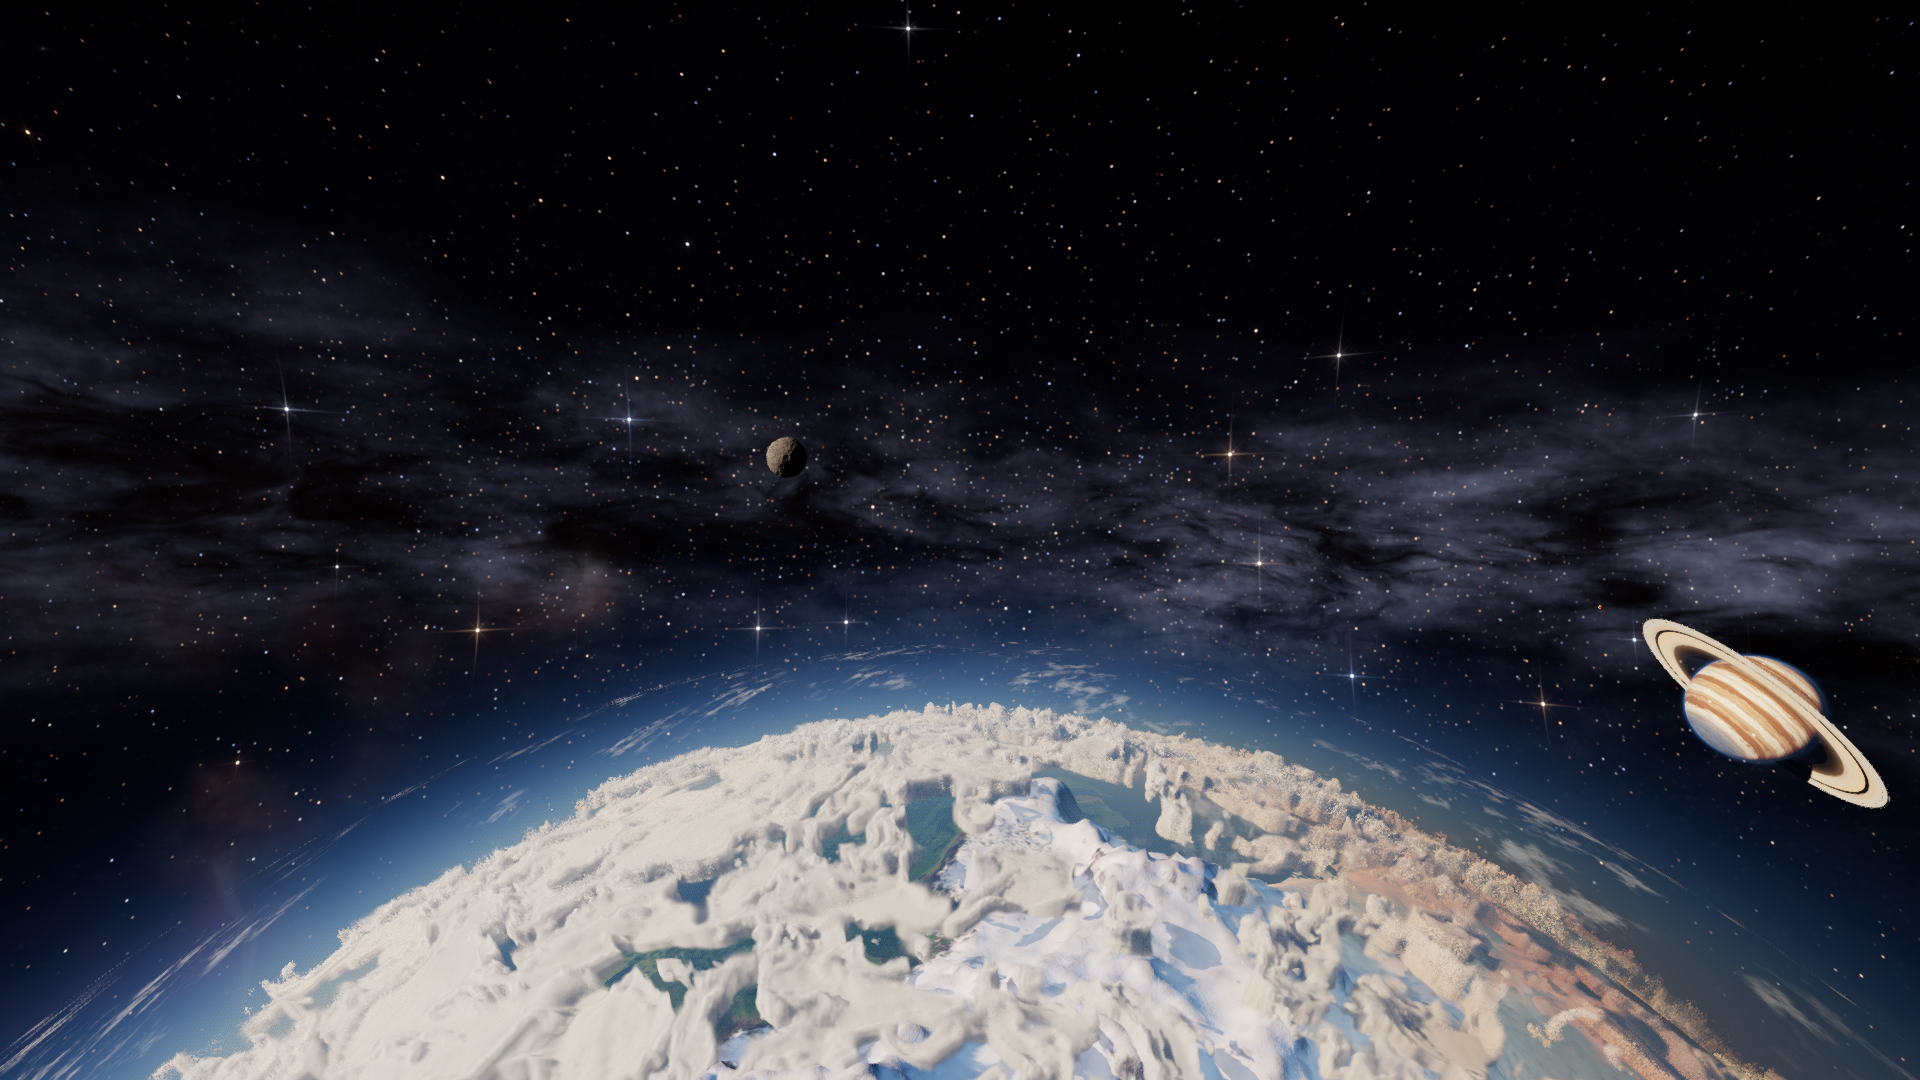
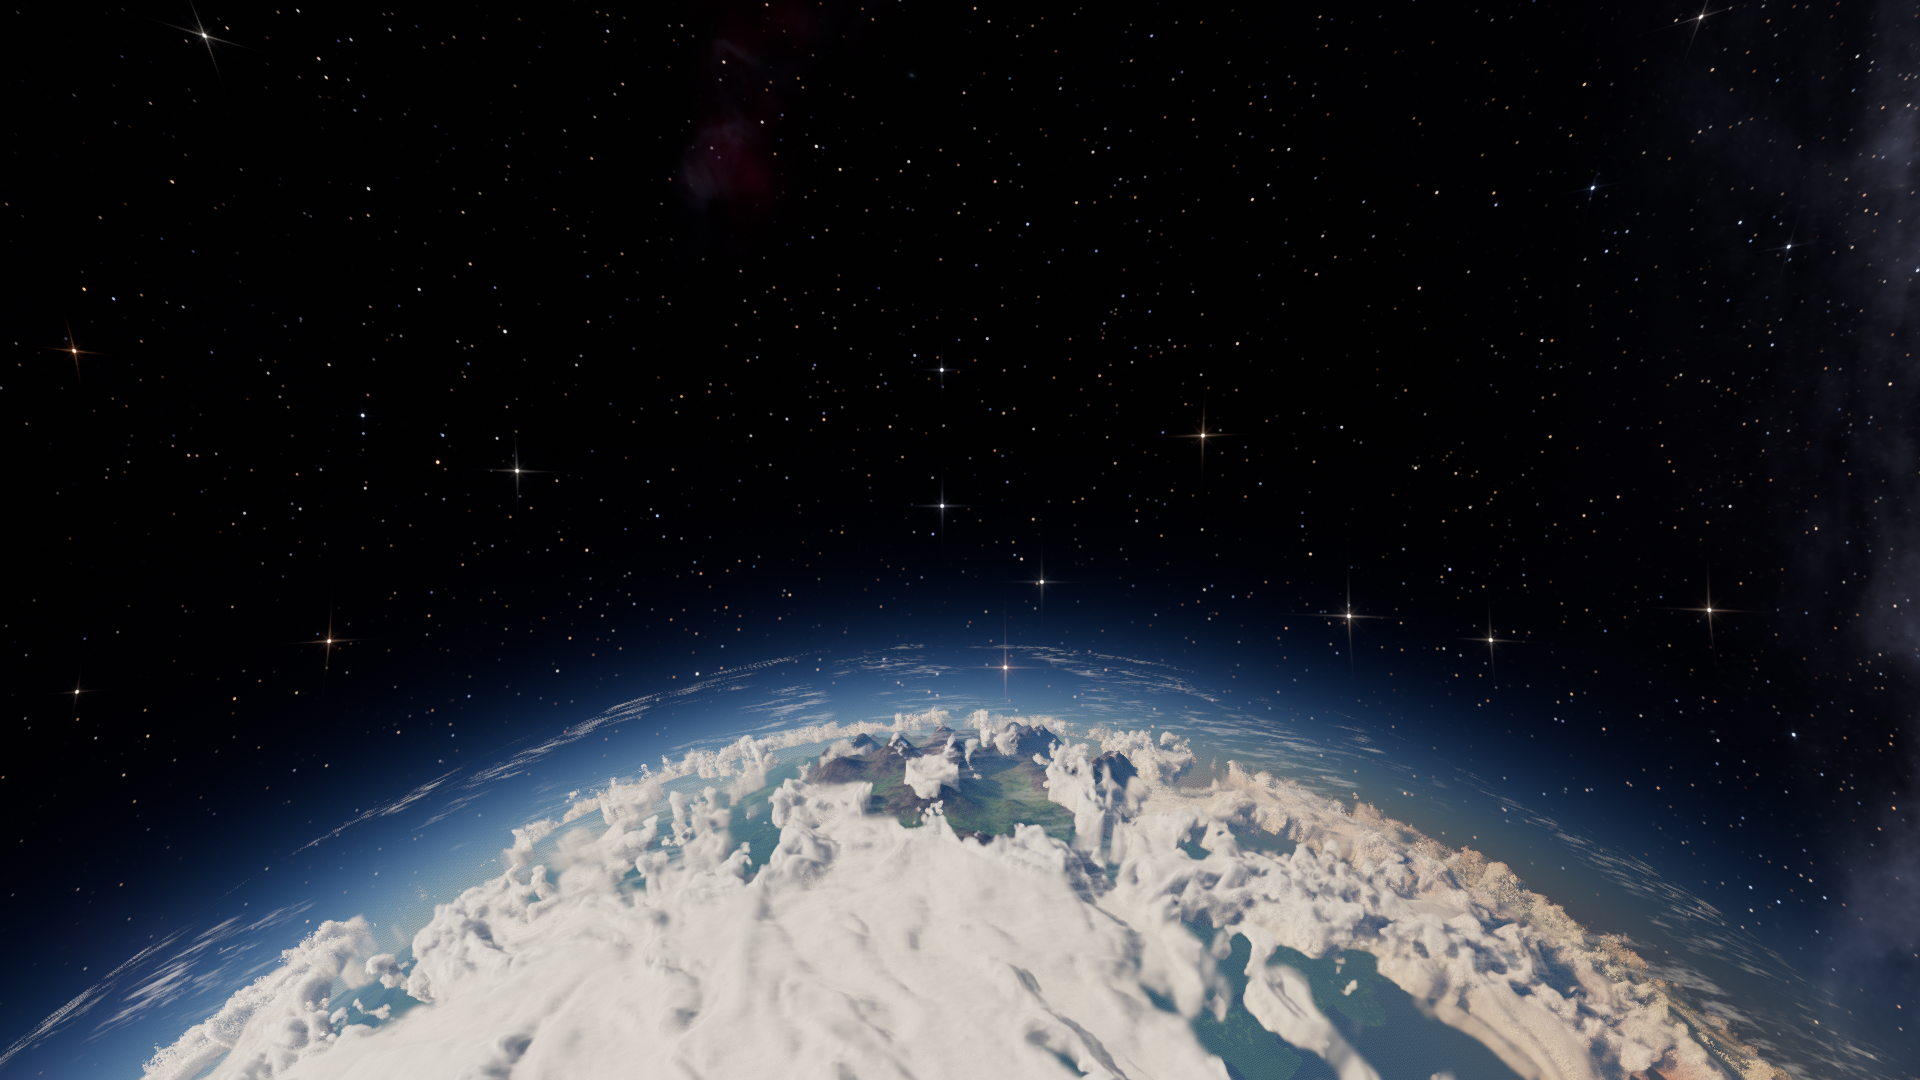
Final 1080p system screenshots (Terra set, night, entry), report docs/reports/wave2_system.md

diff --git a/docs/reports/wave2_system.md b/docs/reports/wave2_system.md
@@ -76,7 +76,11 @@ Aurelion за горами/облаками с Terra, звезда за лимб
 - **Экспозиция** (ручная, по контексту, плавно `adapt_speed`, при съёмке — сразу): космос 1.0, дневная поверхность
   1.05, ночная сторона у поверхности до 2.6 (тёмная, но читаемая). Внутри освещённой атмосферы звёзды/Млечный путь
   гасятся (`sky_energy` неба → 0.006, ступенями по 1/3 стопа — каждое изменение пересчитывает radiance-кубмапу).
-  Godot `background_energy_multiplier` на этот sky-шейдер не действует.
+  Godot `background_energy_multiplier` на этот sky-шейдер не действует. Звёзды проявляются только после заката
+  (солнце ниже −1.7°…−11°).
+- Ночная сторона: в шейдере рельефа «пол» амбиента `night_ambient` = (0.025, 0.032, 0.055) (звёзды/свечение/планетный
+  свет, художественно) — из космоса (экспозиция 1.0) ночная сторона почти чёрная, у поверхности (2.6) — тёмная, но
+  читаемая.
 
 ## 5. Ручки качества и производительность (п.7)
 
@@ -84,7 +88,7 @@ Aurelion за горами/облаками с Terra, звезда за лимб
 
 | Ручка | Где | По умолчанию | Влияние |
 |---|---|---|---|
-| `quality` 0/1/2 | `SolarSystem` | 1 | шаги атмосферы 8/12/16, облаков 32/56/96 (+3/4/5 к солнцу), волн океана 12/20/28, октавы гиганта |
+| `quality` 0/1/2 (`set_quality()` в рантайме) | `SolarSystem` | 1 | шаги атмосферы 8/12/16, облаков 32/56/96 (+3/4/5 к солнцу), волн океана 12/20/28, октавы гиганта |
 | `cloud_weather_resolution` | `SolarSystem` | 2048 | карта погоды (одноразовый bake), VRAM 16 МБ на планету |
 | `shadows_enabled`, `shadow_*` | `SolarSystem` | вкл | PSSM 4 сплита по рельефу фокус-планеты |
 | `rendering/lights_and_shadows/directional_shadow/size` | `project.godot` | 8192 (не менял) | на 2060 можно 4096, если тени дороги |
@@ -108,7 +112,8 @@ Aurelion за горами/облаками с Terra, звезда за лимб
 
 `system_overview`, `terra_orbit`, `terra_limb_sunrise`, `terra_entry` (30 км), `terra_low` (1 км, побережье+горы),
 `terra_ground` (2 м, Aurelion в небе), `terra_sunset_ground`, `selene_surface_terra_rise`, `ignis_low`, `glacia_low`,
-`aurelion_rings`, `vex_aurelion`, `star_from_ignis`. Аргументы: `--fov=`, `--exposure=` (ручная), `--no_shadows`,
+`aurelion_rings`, `vex_aurelion`, `star_from_ignis`; доп.: `terra_night_ground`, `ignis_orbit`, `glacia_orbit`,
+`selene_orbit`, `vex_orbit`. CPU-бенч: `godot --headless --path . scenes/main.tscn -- --bench=600`. Аргументы: `--fov=`, `--exposure=` (ручная), `--no_shadows`,
 `--cu_/--au_/--ou_/--tu_<uniform>=v` (облака/атмосфера/океан/рельеф Terra).
 
 ## 7. Как подключать корабль и игрока
@@ -141,7 +146,8 @@ Aurelion за горами/облаками с Terra, звезда за лимб
 - `src/planets/planet.gd` — `add_component(node, params = null)`.
 - `src/planets/planet_terrain.gd` — `render_layers`, `set_render_layers()`, `set_cast_shadows()`, `set_min_level()`.
 - `src/space/star.gd`, `src/planets/atmosphere/gas_giant.gd` — интерфейс тела Universe, группа `celestial_body`.
-- `src/planets/atmosphere/cloud_layer.gd` — `stratus`, `weather_contrast`, `weather_at()`.
+- `src/planets/atmosphere/cloud_layer.gd` — `stratus`, `weather_contrast`, `rot_offset`/`set_rotation_offset()`,
+  `weather_at()` (CPU-чтение карты погоды после bake).
 - Шейдеры слоёв/рельефа — см. §1. `debug_placeholder_terrain.gdshader` — только `sd_sun_dir()`.
 - `docs/ARCHITECTURE.md` (таблица, правила far/near, scaled space, свет), `docs/DECISIONS.md` (4 строки).
 - `project.godot` — **не менял**.
@@ -153,10 +159,11 @@ Aurelion за горами/облаками с Terra, звезда за лимб
 | `system_overview.png` | звезда с бликами, Aurelion серпом (освещён со стороны звезды — свет групп работает), тёмный диск Terra у звезды, ядро Млечного пути |
 | `terra_orbit.png` | Terra с орбиты 140 км: континенты, циклон, слоистые поля облаков; Aurelion с кольцами и Selene в кадре |
 | `terra_limb_sunrise.png` | восход из-за лимба: звезда выглядывает из атмосферы, силуэты облаков на лимбе, лучи |
-| `terra_entry.png` | 30 км: дуга горизонта, атмосфера, Selene и Aurelion над горизонтом |
+| `terra_entry.png` | 30 км: дуга горизонта, атмосфера, гладкая облачная дека, горы сквозь облака (умеренные широты) |
 | `terra_low.png` | 1 км: гора со снегом, лес, пляж, бирюзовое мелководье, тени облаков |
 | `terra_ground.png` | 2 м: побережье, горы, кучевые + перистые облака, **Aurelion с кольцами в дневном небе** |
 | `terra_sunset_ground.png` | закат над морем: блики, облака в контровом свете, дорожка |
+| `terra_night_ground.png` | ночная сторона: солнце −22°, читаемый тёмный рельеф (минимум амбиента + экспозиция 2.6), Aurelion в ночном небе |
 | `selene_surface_terra_rise.png` | Terra (17°) встаёт над горизонтом Selene |
 | `aurelion_rings.png` | у плоскости колец: щели, тень планеты на кольцах, Vex рядом |
 | `vex_aurelion.png` | с поверхности Vex: гигант ~40° и кольца через полнеба над серным рельефом |
@@ -188,6 +195,8 @@ Aurelion за горами/облаками с Terra, звезда за лимб
 - Очень далёкие тела < 1 px исчезают (нет «точек-звёзд» для планет).
 - Если два прозрачных слоя разных групп перекрываются при почти одинаковой дальности, порядок может «прыгнуть»
   (сортировка по центрам групп).
+- При near 0.05 (кокпит) диапазон тождества у поверхности Terra почти совпадает с F_max → сжатие между группами слабое
+  (p ≈ 0.02), порядок перекрытия далёких групп держится только при большой разнице дальностей. Рекомендация: near 0.1.
 - `frame_ms` CPU-бенч в облаке зашумлён (4 ядра делят 4 агента): `SolarSystem._frame` ≈ 0.7 мс avg при телепорте
   каждый кадр (в игре меньше); быстрый спуск с орбиты нагружает пул потоков рельефа — все планеты делят
   WorkerThreadPool.
